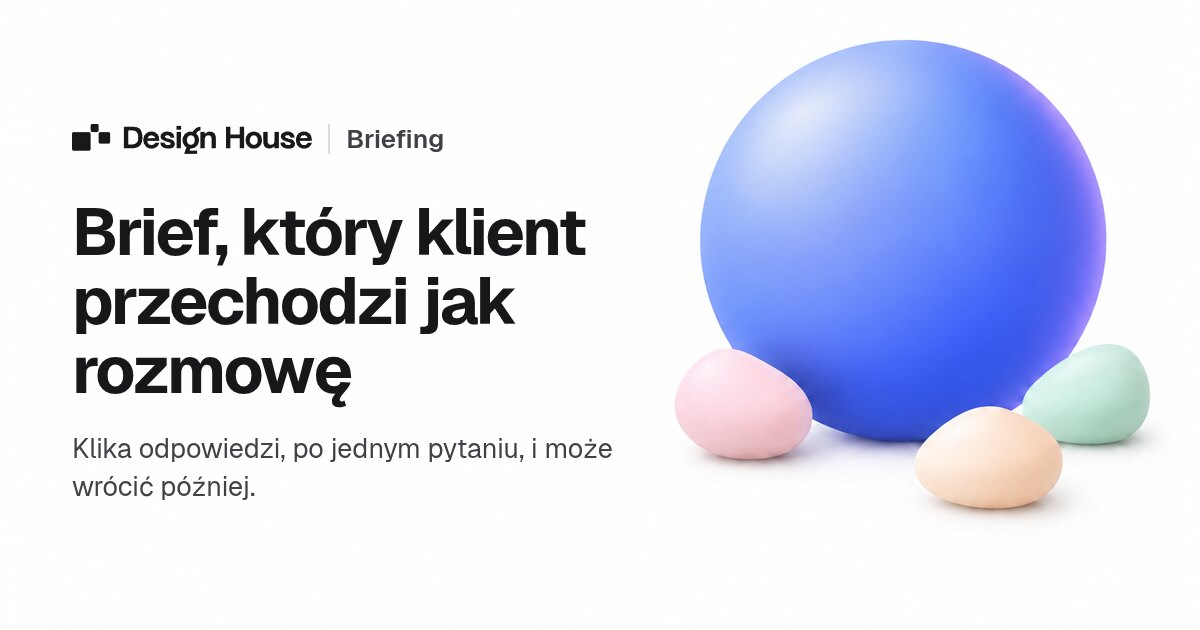
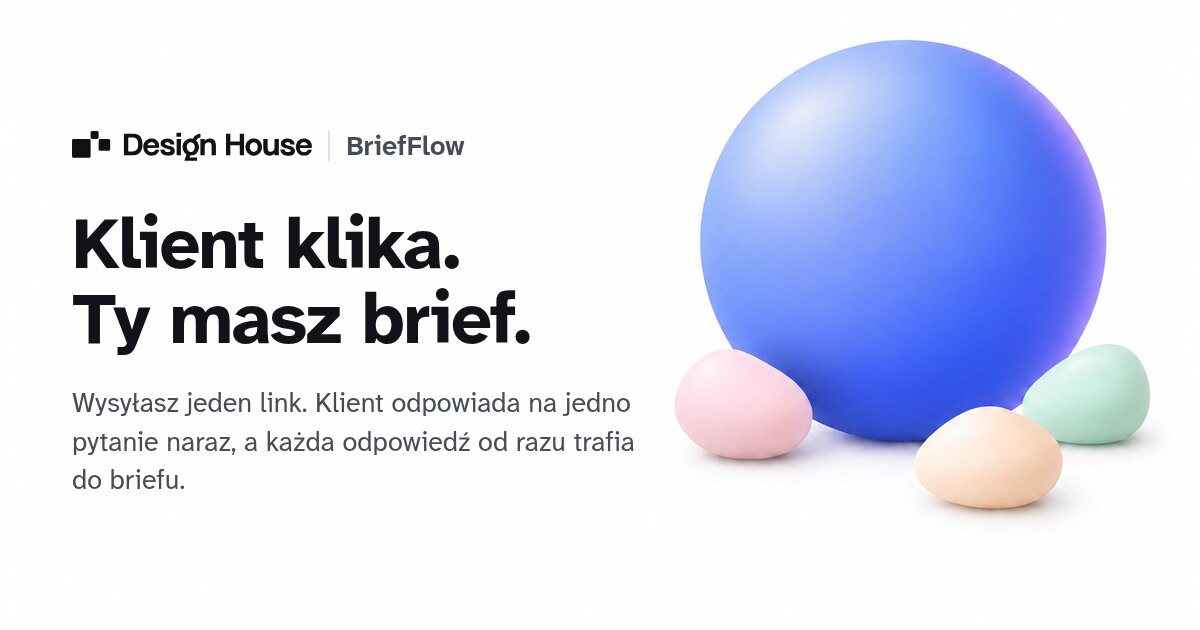
Rename the product to BriefFlow
The product is called BriefFlow and keeps the Design House logo next to
the name. The rename covers the lockup caption, page titles and
descriptions, emails, the terms and privacy pages, the README, NOTICE
and the docs. The link preview image is re-rendered in the app font
with the current headline. The repository link points to
Arkazzae/BriefFlow. Technical names such as the worker name, the
package name and the dh_ cookie and storage keys stay as they are.

Changed region(s): [[0.0617, 0.3317, 0.5242, 0.6635], [0.0617, 0.6937, 0.5242, 0.7841], [0.0617, 0.181, 0.4008, 0.2714]]

diff --git a/src/client/Legal.tsx b/src/client/Legal.tsx
@@ -4,7 +4,7 @@ import { BrandLockup, Wordmark } from "./Brand";
 import { REPO_URL } from "./links";
 import { onLinkClick } from "./router";
 
-// Regulamin i polityka prywatności Briefingu. Opisują to, co aplikacja naprawdę robi (docs/dane-i-logowanie.md).
+// Regulamin i polityka prywatności BriefFlow. Opisują to, co aplikacja naprawdę robi (docs/dane-i-logowanie.md).
 // To wersje robocze do sprawdzenia przez prawnika; zmiana kodu, który dotyka danych, oznacza zmianę tych tekstów
 // i nową wersję w LEGAL_VERSION.
 
@@ -43,7 +43,7 @@ function LegalPage({ title, sections, other }: { title: string; sections: Sectio
   return (
     <div className="site legal">
       <header className="site-nav">
-        <a className="brand" href="/" aria-label="Design House Briefing, strona główna" onClick={(e) => onLinkClick(e, "/")}>
+        <a className="brand" href="/" aria-label="Design House BriefFlow, strona główna" onClick={(e) => onLinkClick(e, "/")}>
           <BrandLockup />
         </a>
         <a className="btn legal-back" href="/" onClick={(e) => onLinkClick(e, "/")}>
@@ -81,7 +81,7 @@ function LegalPage({ title, sections, other }: { title: string; sections: Sectio
         <a className="foot-brand" href="https://designhouse.me" aria-label="Design House">
           <Wordmark />
         </a>
-        <span>Briefing to narzędzie Design House. Briefy przechowujemy w UE.</span>
+        <span>BriefFlow to narzędzie Design House. Briefy przechowujemy w UE.</span>
       </footer>
     </div>
   );
@@ -95,7 +95,7 @@ const PRIVACY: Section[] = [
       <>
         <CompanyData role="Administrator" />
         <p>
-          Polityka dotyczy aplikacji Briefing, w której Design House przygotowuje briefy projektów z klientami. W sprawach
+          Polityka dotyczy aplikacji BriefFlow, w której Design House przygotowuje briefy projektów z klientami. W sprawach
           danych osobowych pisz na <a href={`mailto:${COMPANY.email}`}>{COMPANY.email}</a>.
         </p>
       </>
@@ -258,7 +258,7 @@ const TERMS: Section[] = [
       <>
         <CompanyData role="Usługodawca" />
         <p>
-          Regulamin określa zasady korzystania z aplikacji Briefing (dalej: Briefing), w której Design House przygotowuje z
+          Regulamin określa zasady korzystania z aplikacji BriefFlow, w której Design House przygotowuje z
           klientami briefy projektów.
         </p>
       </>
@@ -266,7 +266,7 @@ const TERMS: Section[] = [
   },
   {
     id: "kto",
-    title: "Kto korzysta z Briefingu",
+    title: "Kto korzysta z BriefFlow",
     body: (
       <ul>
         <li>
@@ -275,7 +275,7 @@ const TERMS: Section[] = [
         </li>
         <li>
           <strong>Klienci</strong> wchodzą przez link otrzymany od Design House i odpowiadają na pytania jednego briefu. Klient
-          nie zakłada konta i nie płaci za korzystanie z Briefingu.
+          nie zakłada konta i nie płaci za korzystanie z BriefFlow.
         </li>
       </ul>
     ),
@@ -324,7 +324,7 @@ const TERMS: Section[] = [
     title: "Dostępność i odpowiedzialność",
     body: (
       <p>
-        Dbamy o to, żeby Briefing działał bez przerw, ale mogą zdarzyć się przerwy techniczne, w tym po stronie Cloudflare.
+        Dbamy o to, żeby BriefFlow działał bez przerw, ale mogą zdarzyć się przerwy techniczne, w tym po stronie Cloudflare.
         Odpowiedzi zapisane przed przerwą zostają w briefie. Nie odpowiadamy za skutki udostępnienia linku do briefu
         osobom trzecim przez osobę, która go otrzymała.
       </p>
@@ -335,7 +335,7 @@ const TERMS: Section[] = [
     title: "Reklamacje",
     body: (
       <p>
-        Uwagi i reklamacje dotyczące działania Briefingu wysyłaj na <a href={`mailto:${COMPANY.email}`}>{COMPANY.email}</a>.
+        Uwagi i reklamacje dotyczące działania BriefFlow wysyłaj na <a href={`mailto:${COMPANY.email}`}>{COMPANY.email}</a>.
         Odpowiadamy w ciągu 14 dni.
       </p>
     ),
@@ -345,7 +345,7 @@ const TERMS: Section[] = [
     title: "Kod źródłowy i znaki",
     body: (
       <p>
-        Kod Briefingu jest udostępniony na licencji Apache 2.0 (<a href={REPO_URL}>repozytorium</a>), z obowiązkiem
+        Kod BriefFlow jest udostępniony na licencji Apache 2.0 (<a href={REPO_URL}>repozytorium</a>), z obowiązkiem
         zachowania informacji o autorstwie z pliku NOTICE. Licencja nie obejmuje nazwy i logo Design House.
       </p>
     ),

diff --git a/src/server/emails.ts b/src/server/emails.ts
@@ -1,4 +1,4 @@
-// Maile Briefingu wyglądają jak aplikacja: logo Design House z podpisem „Briefing”, kula jako awatar,
+// Maile BriefFlow wyglądają jak aplikacja: logo Design House z podpisem „BriefFlow”, kula jako awatar,
 // wiadomość w dymku, kafelki i pigułki jak w rozmowie, przycisk jak w pasku na dole aplikacji.
 // Każdy mail ma też wersję tekstową. Lokalnie maile idą do Mailpita, na produkcji przez Cloudflare Email Service.
 
@@ -19,7 +19,7 @@ const INK_3 = "#686e7b";
 const PANEL = "#f4f5f8";
 const LINE = "#e9ebef";
 
-/** Wiadomość od Briefingu: kula jako awatar i dymek, jak pytanie w rozmowie. */
+/** Wiadomość od BriefFlow: kula jako awatar i dymek, jak pytanie w rozmowie. */
 function bubble(origin: string, html: string) {
   return `<table role="presentation" cellpadding="0" cellspacing="0" width="100%"><tr>
 <td width="40" valign="bottom" style="padding-right:10px"><img src="${esc(origin)}/brand/orb-email.png" width="36" height="36" alt="" style="display:block;border:0"></td>
@@ -56,7 +56,7 @@ function layout(origin: string, preheader: string, body: string) {
 <table role="presentation" cellpadding="0" cellspacing="0"><tr>
 <td><img src="${esc(origin)}/brand/dh/logo-email.png" width="154" height="19" alt="Design House" style="display:block;border:0"></td>
 <td style="padding:0 12px"><span style="display:block;width:1px;height:18px;background:#dcdfe5;font-size:0;line-height:0">&nbsp;</span></td>
-<td style="font-size:15px;font-weight:600;color:${INK_2}">Briefing</td>
+<td style="font-size:15px;font-weight:600;color:${INK_2}">BriefFlow</td>
 </tr></table>
 </td></tr>
 <tr><td style="background:#ffffff;border:1px solid ${LINE};border-radius:24px;padding:28px 28px 30px">
@@ -92,9 +92,9 @@ ${pill("Ważny 10 minut", "#e8eeff", "#3550d4")}${pill("Działa raz", "#e2f4ea",
 <p style="margin:18px 0 0 50px;font-size:13.5px;line-height:1.55;color:${INK_3}">Jeśli to nie Ty prosiłeś o kod, zignoruj tę wiadomość: bez kodu nikt się nie zaloguje.</p>`;
   return {
     to: input.to,
-    subject: `${spaced} to Twój kod do Briefingu`,
+    subject: `${spaced} to Twój kod do BriefFlow`,
     html: layout(input.origin, `Kod logowania: ${spaced}. Ważny 10 minut.`, body),
-    text: `Twój kod logowania do Briefingu: ${spaced}\n\nWpisz go na stronie, na której podałeś adres. Kod jest ważny 10 minut i działa tylko raz.\nJeśli to nie Ty prosiłeś o kod, zignoruj tę wiadomość.${footerText}`,
+    text: `Twój kod logowania do BriefFlow: ${spaced}\n\nWpisz go na stronie, na której podałeś adres. Kod jest ważny 10 minut i działa tylko raz.\nJeśli to nie Ty prosiłeś o kod, zignoruj tę wiadomość.${footerText}`,
   };
 }
 

diff --git a/index.html b/index.html
@@ -4,13 +4,13 @@
     <meta charset="UTF-8" />
     <meta name="viewport" content="width=device-width, initial-scale=1.0" />
     <meta name="theme-color" content="#ffffff" />
-    <title>Briefing, Design House</title>
-    <meta name="description" content="Brief, który klient przechodzi jak rozmowę: klika odpowiedzi, po jednym pytaniu, i może wrócić później. Narzędzie Design House." />
+    <title>BriefFlow, Design House</title>
+    <meta name="description" content="Klient klika. Ty masz brief. Wysyłasz jeden link, klient odpowiada na jedno pytanie naraz, a każda odpowiedź od razu trafia do briefu. Narzędzie Design House." />
     <link rel="icon" href="/favicon.ico" sizes="48x48" />
     <link rel="icon" type="image/svg+xml" href="/favicon.svg" />
     <link rel="apple-touch-icon" href="/apple-touch-icon.png" />
-    <meta property="og:title" content="Briefing, Design House" />
-    <meta property="og:description" content="Brief, który klient przechodzi jak rozmowę. Design House." />
+    <meta property="og:title" content="BriefFlow, Design House" />
+    <meta property="og:description" content="Klient klika. Ty masz brief. Narzędzie Design House." />
     <meta property="og:image" content="/brand/og.jpg" />
     <meta property="og:type" content="website" />
     <meta name="twitter:card" content="summary_large_image" />

diff --git a/src/client/Landing.tsx b/src/client/Landing.tsx
@@ -91,7 +91,7 @@ export function Landing() {
   return (
     <div className="site">
       <header className="site-nav">
-        <a className="brand" href="/" aria-label="Design House Briefing, strona główna">
+        <a className="brand" href="/" aria-label="Design House BriefFlow, strona główna">
           <BrandLockup />
         </a>
         <nav className="site-links" aria-label="Sekcje">
@@ -318,7 +318,7 @@ export function Landing() {
         <a className="foot-brand" href="https://designhouse.me" aria-label="Design House">
           <Wordmark />
         </a>
-        <span>Briefing to narzędzie Design House. Briefy przechowujemy w UE.</span>
+        <span>BriefFlow to narzędzie Design House. Briefy przechowujemy w UE.</span>
         <nav className="foot-links" aria-label="Dokumenty">
           <a href="/regulamin" onClick={(e) => onLinkClick(e, "/regulamin")}>
             Regulamin

diff --git a/src/client/Brand.tsx b/src/client/Brand.tsx
@@ -1,6 +1,6 @@
 // Marka Design House: znak i logotyp DH (pliki w public/brand/dh).
-// DH Briefing to produkt Design House: w nagłówkach stoi znak i logotyp DH, a niebieska kula zostaje
-// postacią Briefingu (awatar w rozmowie, powitania).
+// BriefFlow to produkt Design House: w nagłówkach stoi znak i logotyp DH, a niebieska kula zostaje
+// postacią BriefFlow (awatar w rozmowie, powitania).
 
 /** Znak: trzy zaokrąglone kwadraty stykające się narożnikami, promień stały niezależnie od wielkości. */
 export function DhMark({ className }: { className?: string }) {
@@ -37,7 +37,7 @@ export function BrandLockup({ className = "" }: { className?: string }) {
   return (
     <span className={`lockup ${className}`}>
       <Wordmark />
-      <span className="lockup-product">Briefing</span>
+      <span className="lockup-product">BriefFlow</span>
     </span>
   );
 }

diff --git a/src/client/AppShell.tsx b/src/client/AppShell.tsx
@@ -140,7 +140,7 @@ function ThemeButton({ className, size }: { className: string; size: number }) {
 function Rail({ onBriefs }: { onBriefs: () => void }) {
   return (
     <nav className="rail" aria-label="Aplikacja">
-      <a className="rail-home" href="/app" onClick={(e) => onLinkClick(e, "/app")} aria-label="Design House Briefing, nowy brief">
+      <a className="rail-home" href="/app" onClick={(e) => onLinkClick(e, "/app")} aria-label="Design House BriefFlow, nowy brief">
         <DhTile size={40} />
       </a>
       <button className="rail-btn is-active" onClick={onBriefs} aria-label="Briefy" title="Briefy">

diff --git a/src/client/BriefPage.tsx b/src/client/BriefPage.tsx
@@ -799,7 +799,7 @@ export function ClientBriefPage({ id, token }: { id: string; token: string }) {
         <div className="empty">
           <Orb size={56} />
           <h2>To link do edycji briefu</h2>
-          <p>Briefy edytujesz teraz w aplikacji DH Briefing, po zalogowaniu adresem firmowym.</p>
+          <p>Briefy edytujesz teraz w aplikacji BriefFlow, po zalogowaniu adresem firmowym.</p>
           <a className="btn btn-primary" href="/app">
             Otwórz aplikację
           </a>

diff --git a/src/client/Shell.tsx b/src/client/Shell.tsx
@@ -24,7 +24,7 @@ export function ClientShell({
           <DhTile size={32} className="client-tile" />
         </a>
         <div className="client-head-text">
-          <span className="client-head-title">{title ?? "DH Briefing"}</span>
+          <span className="client-head-title">{title ?? "BriefFlow"}</span>
           {subtitle && <span className="client-head-sub">{subtitle}</span>}
         </div>
         {value !== undefined && <Progress value={value} />}

diff --git a/src/client/styles.css b/src/client/styles.css
@@ -1,5 +1,5 @@
 /*
- * DH Briefing. Jasny system w stylu czatu: białe powierzchnie, szary panel roboczy, prawie czarne
+ * BriefFlow. Jasny system w stylu czatu: białe powierzchnie, szary panel roboczy, prawie czarne
  * przyciski w kształcie pigułki, pastelowe kółka pod ikonami. Jedyny znak marki to niebieska kula (orb).
  * Rozmowa klienta z kaflami odpowiedzi, żywy brief obok.
  */

diff --git a/src/client/Orb.tsx b/src/client/Orb.tsx
@@ -1,4 +1,4 @@
-// Znak DH Briefing: niebieska kula. Obraz z /brand, mniejsze rozmiary z mniejszego pliku.
+// Znak BriefFlow: niebieska kula. Obraz z /brand, mniejsze rozmiary z mniejszego pliku.
 
 export function Orb({ size = 40, className = "", glow }: { size?: number; className?: string; glow?: boolean }) {
   const src = size > 96 ? "/brand/orb-512.webp" : "/brand/orb-160.webp";

diff --git a/src/client/links.ts b/src/client/links.ts
@@ -1,2 +1,2 @@
 /** Repozytorium projektu. Na razie adres zastępczy: podmień, gdy repo będzie publiczne. */
-export const REPO_URL = "https://github.com/Arkazzae/dh-briefing";
+export const REPO_URL = "https://github.com/Arkazzae/BriefFlow";

diff --git a/docs/dane-i-logowanie.md b/docs/dane-i-logowanie.md
@@ -1,6 +1,6 @@
 # Logowanie i dane na Cloudflare
 
-Opis tego, jak działa logowanie i co dokładnie Briefing zapisuje. Źródłem prawdy jest kod: `src/server/auth.ts`, `src/server/accounts.ts`, `src/server/brief-agent.ts`, `src/server/emails.ts`, `src/server/ai.ts`. Zmiana w tych plikach oznacza zmianę tego dokumentu i polityki prywatności (`src/client/Legal.tsx`).
+Opis tego, jak działa logowanie i co dokładnie BriefFlow zapisuje. Źródłem prawdy jest kod: `src/server/auth.ts`, `src/server/accounts.ts`, `src/server/brief-agent.ts`, `src/server/emails.ts`, `src/server/ai.ts`. Zmiana w tych plikach oznacza zmianę tego dokumentu i polityki prywatności (`src/client/Legal.tsx`).
 
 ## Dwie role, dwa sposoby wejścia
 
